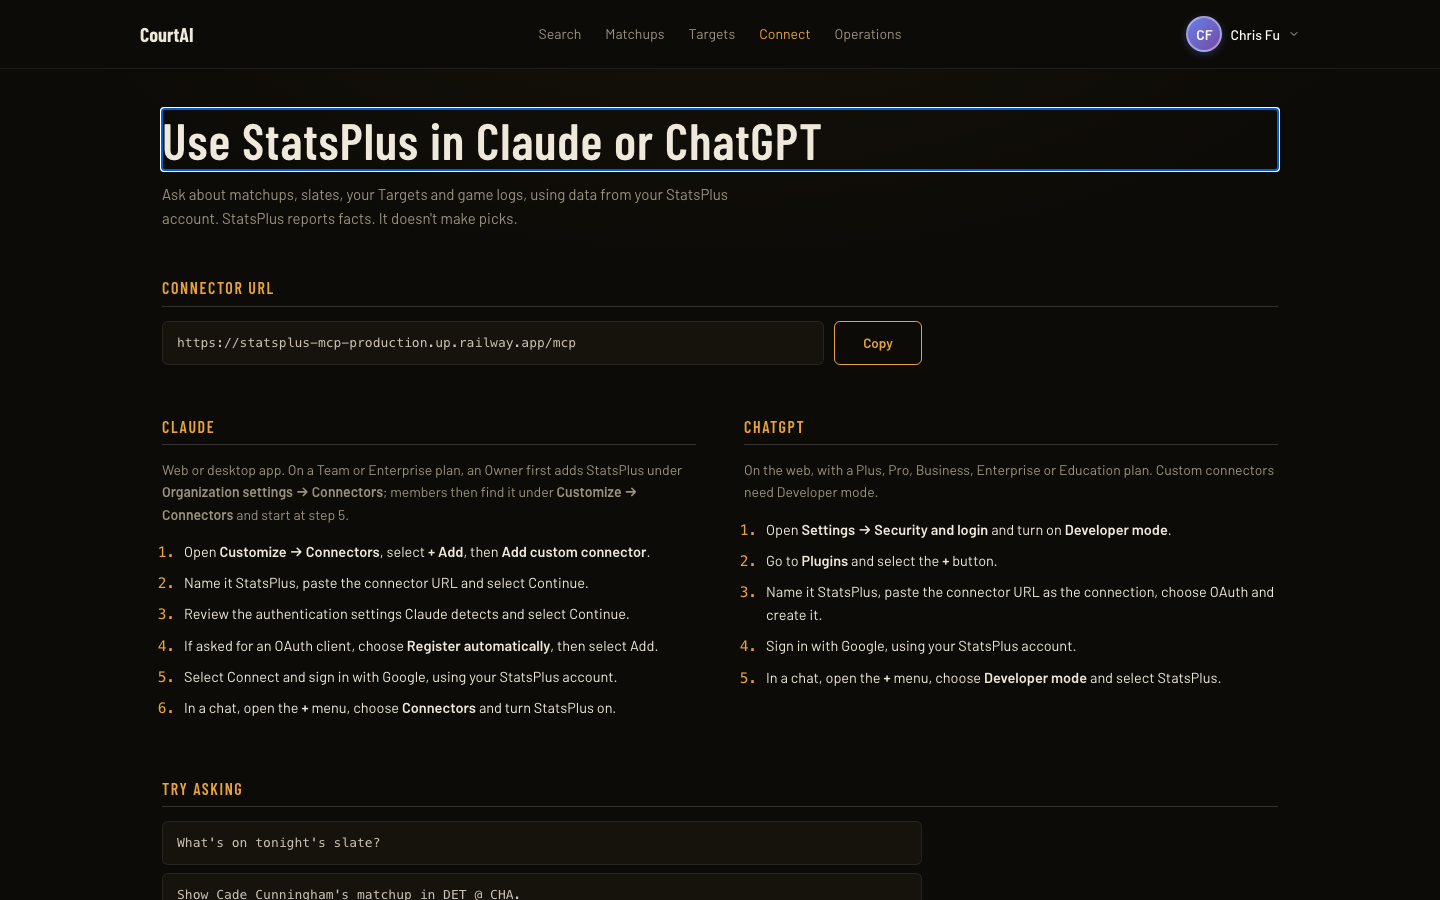
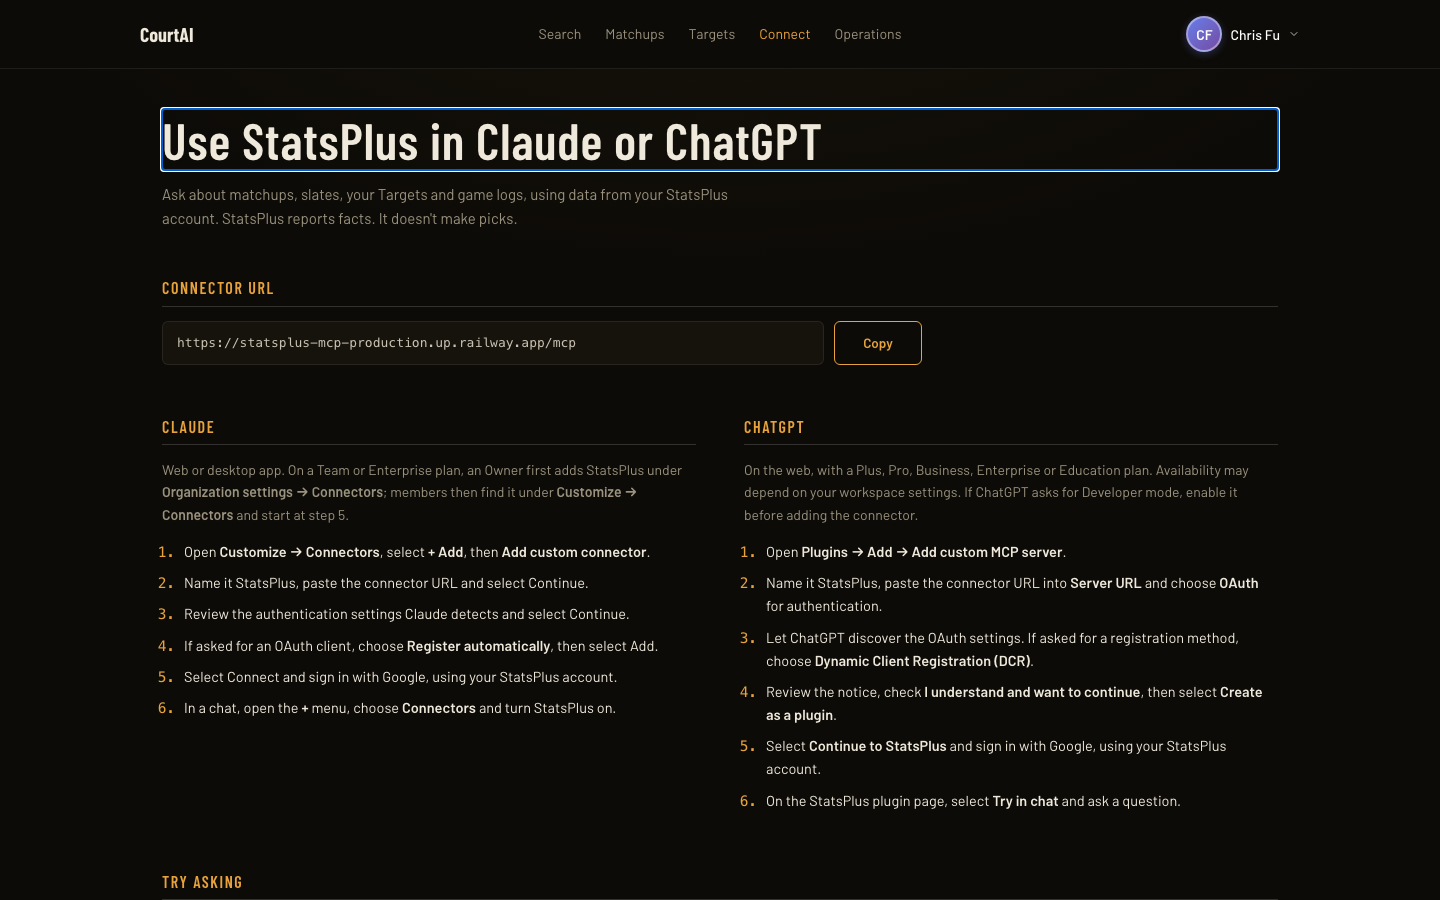
Refresh Connect screenshots after live menu verification

Changed region(s): [[0.5312, 0.4978, 0.875, 0.9022], [0.0938, 0.9333, 0.875, 1.0], [0.125, 0.8711, 0.1875, 0.9022]]

diff --git a/README.md b/README.md
@@ -1,12 +1,8 @@
-# Connect page screenshot evidence
+# Connect page evidence
 
-Frontend revision: bdc3f192b12e4a121c7dae1d62bdb096bf4aec41.
-Local frontend connected to production Railway with real Firebase authentication; no fixture auth. Desktop 1440×900, phone 390×844. Signed-in admin navigation is visible and fits at phone width.
+Frontend revision: `942a4001ef3c5df385fcdf94f61a8278bf2c0b23`.
+Captured October 6, 2026 using the verify-statsplus production helper with viewport-only capture and scroll-offset support. Local frontend connected to production Railway; real Firebase authentication, no fixtures. Desktop 1440×900; phone 390×844.
 
-Captured 2026-10-04 through the verify-statsplus production helper, using a temporary copy that grants browser clipboard permissions and captures scrolled viewport screenshots instead of full-page images. No application styles were changed for capture. Chromium full-page capture does not correctly paint the app's fixed background outside the viewport, so overlapping viewport captures show the actual rendered page.
+All 15 journey steps passed, including Copy → Copied at both widths and no horizontal overflow. Page is static and made zero API requests. Five screenshots inspected. Owned browser/server cleaned up and runtime removed. `journey.jsonl` contains the replay; SHA256SUMS covers evidence files.
 
-The supplied journey checks route heading, document overflow and Copy → Copied at desktop and phone widths. All 15 steps passed, including cleanup. The page issues no API requests. This evidence does not verify ChatGPT/Claude connector OAuth; those acceptance checks remain pending deployment.
-
-The step-number CSS fix passes two independent Astra review axes; its browser regression test fails when the decimal declaration is removed. Full frontend gate: lint, format, 831 Jest tests, build, 140 E2E passed/2 skipped.
-
-Images were inspected: both clients have visible numbered steps, all sections remain dark/readable when scrolled, no phone overflow. The desktop heading outline is the app's route-focus indicator.
+The updated ChatGPT instructions follow the authenticated live flow tested on October 6. Both ChatGPT and the existing Claude production connector executed get_slate successfully. Live connector checks returned the October 6 empty Slate with stale schedule and unavailable injuries/player-pool caveats; they do not establish data freshness or populated game behavior. Personal client-chat screenshots are intentionally excluded from this public evidence branch.
